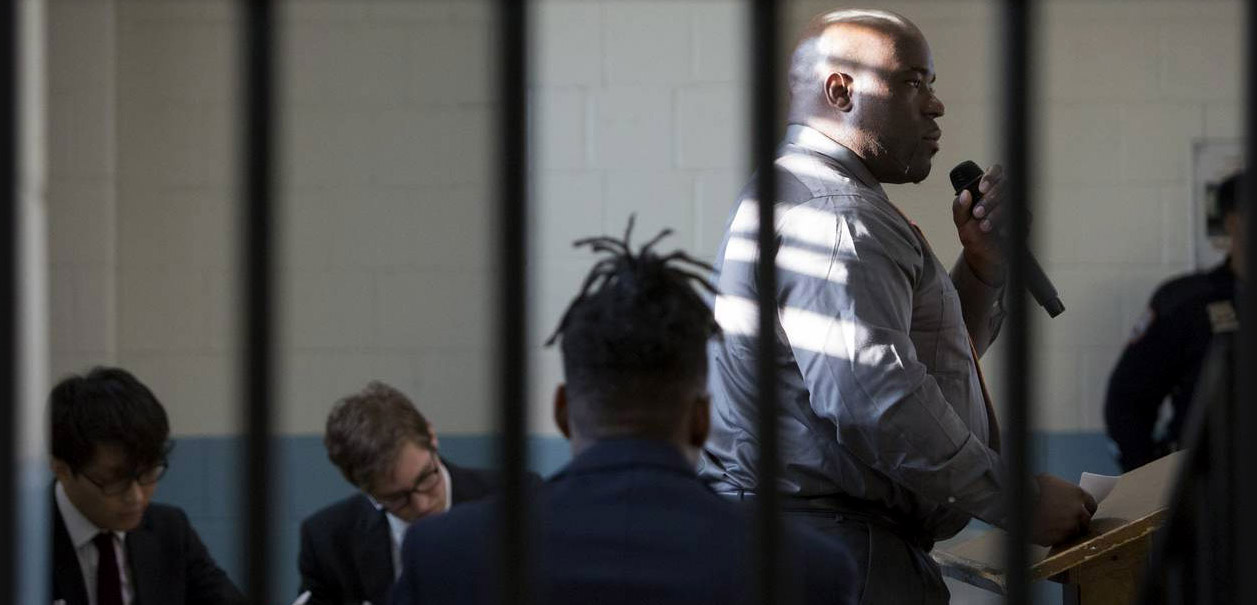
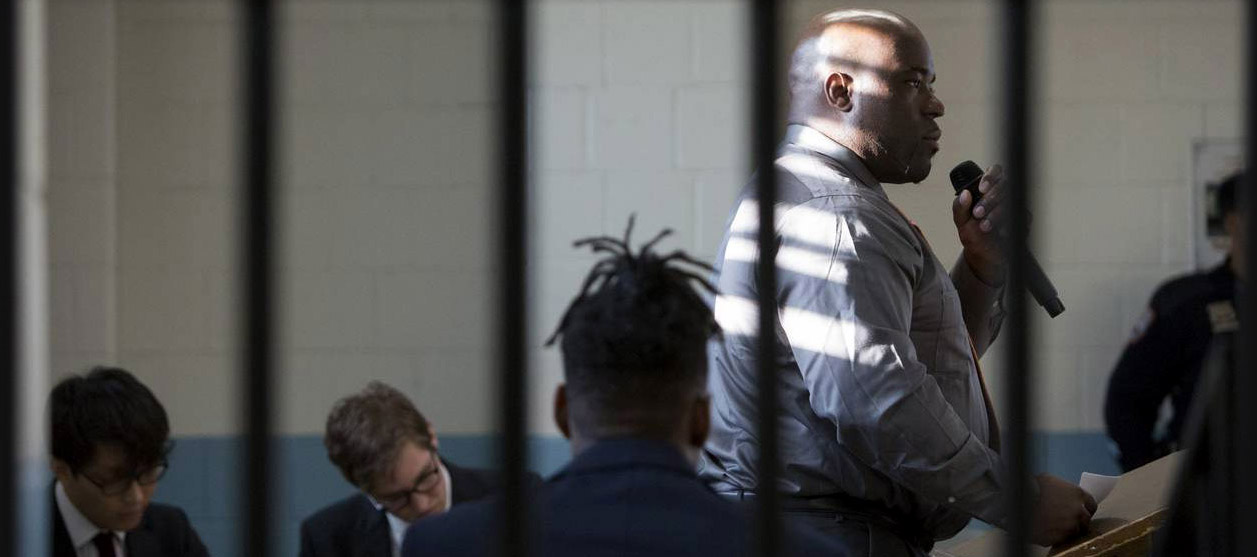
Update Radhe photo.

Changed region(s): [[0.0, 0.0, 0.9928, 1.0], [0.6205, 0.061, 0.6516, 0.0916]]

diff --git a/index.html b/index.html
@@ -5,7 +5,7 @@ layout: home
 <div class="jumbo-matte">
 <div class="container">
   <div class="row">
-    <div class="col-lg-12">
+    <div class="col-lg-10 offset-1">
       <img class="img-fluid jumbo-image" src="images/jack1-crop.jpg">
     </div>
   </div>

diff --git a/style.css b/style.css
@@ -26,7 +26,6 @@ a .btn {
 
 .jumbo-matte {
   background-color: #111;
-  margin-bottom: 2em;
 }
 
 .title-bar {
